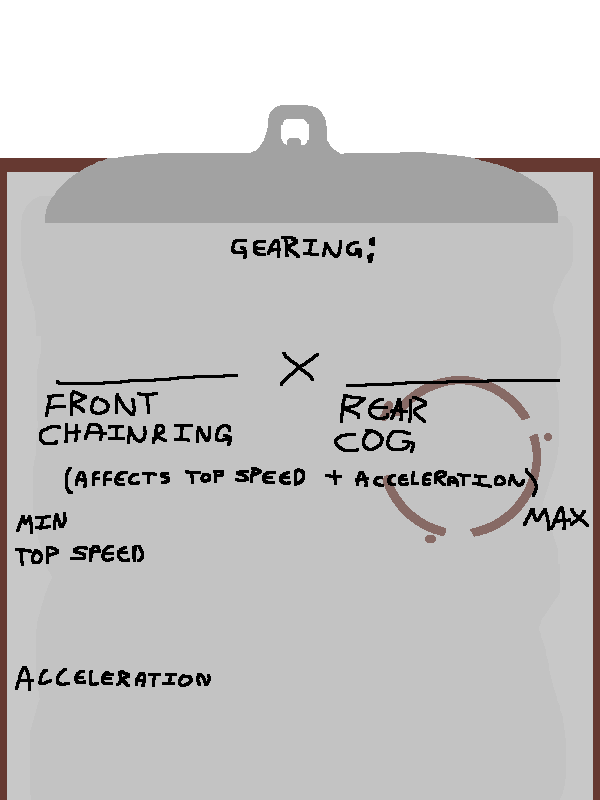
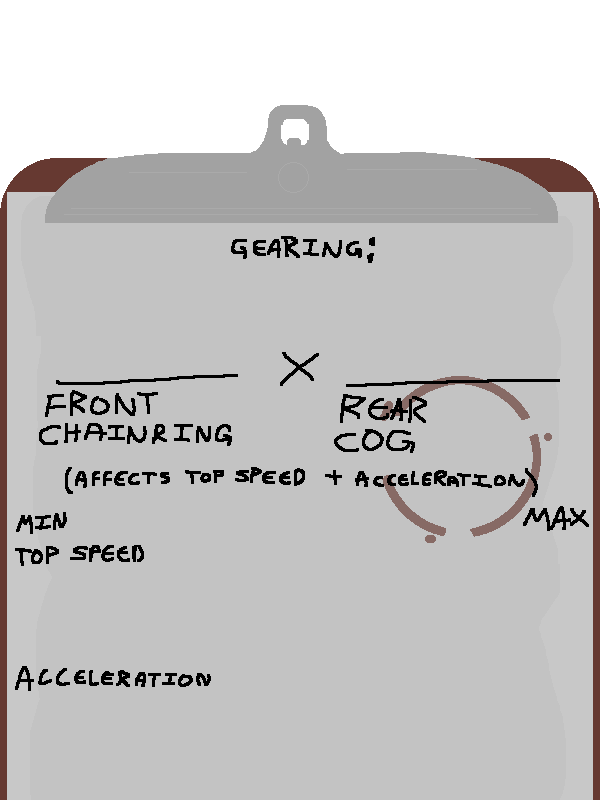
added gearing functionality to clipboard and updated inventory manager

Changed region(s): [[0.87, 0.1875, 1.0, 0.25], [0.0, 0.1875, 0.12, 0.25]]

diff --git a/GUI/bikeShop.py b/GUI/bikeShop.py
@@ -54,12 +54,18 @@ class BikeShop:
         #sets up inventory manager
         self.inv = InventoryManager()
 
-        #set up sliders for bike build stats
-        self.sliderBgRect = (780, -80, 400, 300)
+        #set up sliders and clipboard elements
+        self.clipboardRect = (780, -80, 400, 300)
         self.sliders = [
             Slider(Rect(790, 400, 480, 62), 0, 2.43, 3.87, 0),
             Slider(Rect(790, 504, 480, 62), 0, -3.87, -2.43, 0)
         ]
+        self.chainRingTextRects = [
+            (860, 185, 100, 100), 
+            (1130, 185, 100, 100)
+        ]
+        self.chainRingFont = pygame.font.Font(self.resPath+"font.ttf", 40)
+        self.renderedChainRingTexts = []
         
     #draws all elements of class to backside (called each tick)
     def draw(self, pygame, screen):
@@ -68,14 +74,15 @@ class BikeShop:
         #draws bike visualization that sits center screen
         self.drawBikeVisualization(pygame, screen)
 
-        #draws background for sliders
-        #self.sliderLabelImage = pygame.image.load(f"{self.resPath}\\bikeShopSliderLabels.png")
+        #draws clipboard to screen
         self.sliderLabelImage = pygame.image.load(f"{self.resPath}\\clipboard.png")
         self.sliderLabelImage = pygame.transform.scale(self.sliderLabelImage, (500, 666))
-        screen.blit(self.sliderLabelImage, self.sliderBgRect)
+        screen.blit(self.sliderLabelImage, self.clipboardRect)
         
-        #updates, then draws each slider
-        self.updateSliders(self.sliders)
+        #updates, then draws clipboard elements
+        self.updateClipboard(self.sliders)
+        for i, renderedText in enumerate(self.renderedChainRingTexts):
+            screen.blit(renderedText, self.chainRingTextRects[i])
         for slider in self.sliders:
             slider.draw(pygame, screen)
 
@@ -113,27 +120,35 @@ class BikeShop:
                     screen.blit(currentImage, imageRect)
 
     #updates data in slider objects given player setup
-    def updateSliders(self, sliders):
-        #sums weight of all items in dict
+    def updateClipboard(self, sliders):
+        #reset important values
+        self.renderedChainRingTexts = []
         weight = 0
+
+        #sums weight of all items in dict
         for key, value in self.inv.bike.getDict().items():
             if value != '':
                 currentItem = self.inv.getItem(value)
                 currentWeight = currentItem.get("weight")
                 weight += currentWeight
-        #updates slider with weight
-        sliders[0].update(weight)
+        #todo put it on screen
 
-        #todo calculate top speed and acceleration 
+        #get info from current bike setup
+        currentTeeth = [0, 0]
         ratio = 0
         for key, value in self.inv.bike.getDict().items():
             if value != '':
-                currentFront = float(self.inv.bike.getPartName("front gearing"))
-                currentRear = float(self.inv.bike.getPartName("rear gearing"))
-                ratio = currentFront / currentRear
+                currentTeeth[0] = float(self.inv.bike.getPartName("front gearing"))
+                currentTeeth[1]  = float(self.inv.bike.getPartName("rear gearing"))
+                ratio = currentTeeth[0] / currentTeeth[1]
+
+        #update sliders at bottom of clipboard
         sliders[0].update(ratio)
         sliders[1].update(-ratio)
-        
+
+        #update text in chainring blanks
+        self.renderedChainRingTexts.append(self.chainRingFont.render(str(int(currentTeeth[0])), True, (0, 0, 0)))
+        self.renderedChainRingTexts.append(self.chainRingFont.render(str(int(currentTeeth[1])), True, (0, 0, 0)))
 
     #populates array of nav button objects
     def generateNavButtons(self):

diff --git a/Inventory/inventoryManager.py b/Inventory/inventoryManager.py
@@ -33,7 +33,6 @@ class Bike:
     def getDict(self):
         return self.bikeItems
         
-
 class InventoryManager:
 
     jsonFilePath = "Inventory/inventory.json"
@@ -67,10 +66,11 @@ class InventoryManager:
         self.updateItems()
 
     #appends item to self.items, writes file with items
-    def addItem(self, cat, name, path):
+    def addItem(self, cat, name, weight, path):
         self.items.append({
             "category": cat,
             "name": name,
+            "weight": weight,
             "filePath": path
         })
         self.write()
